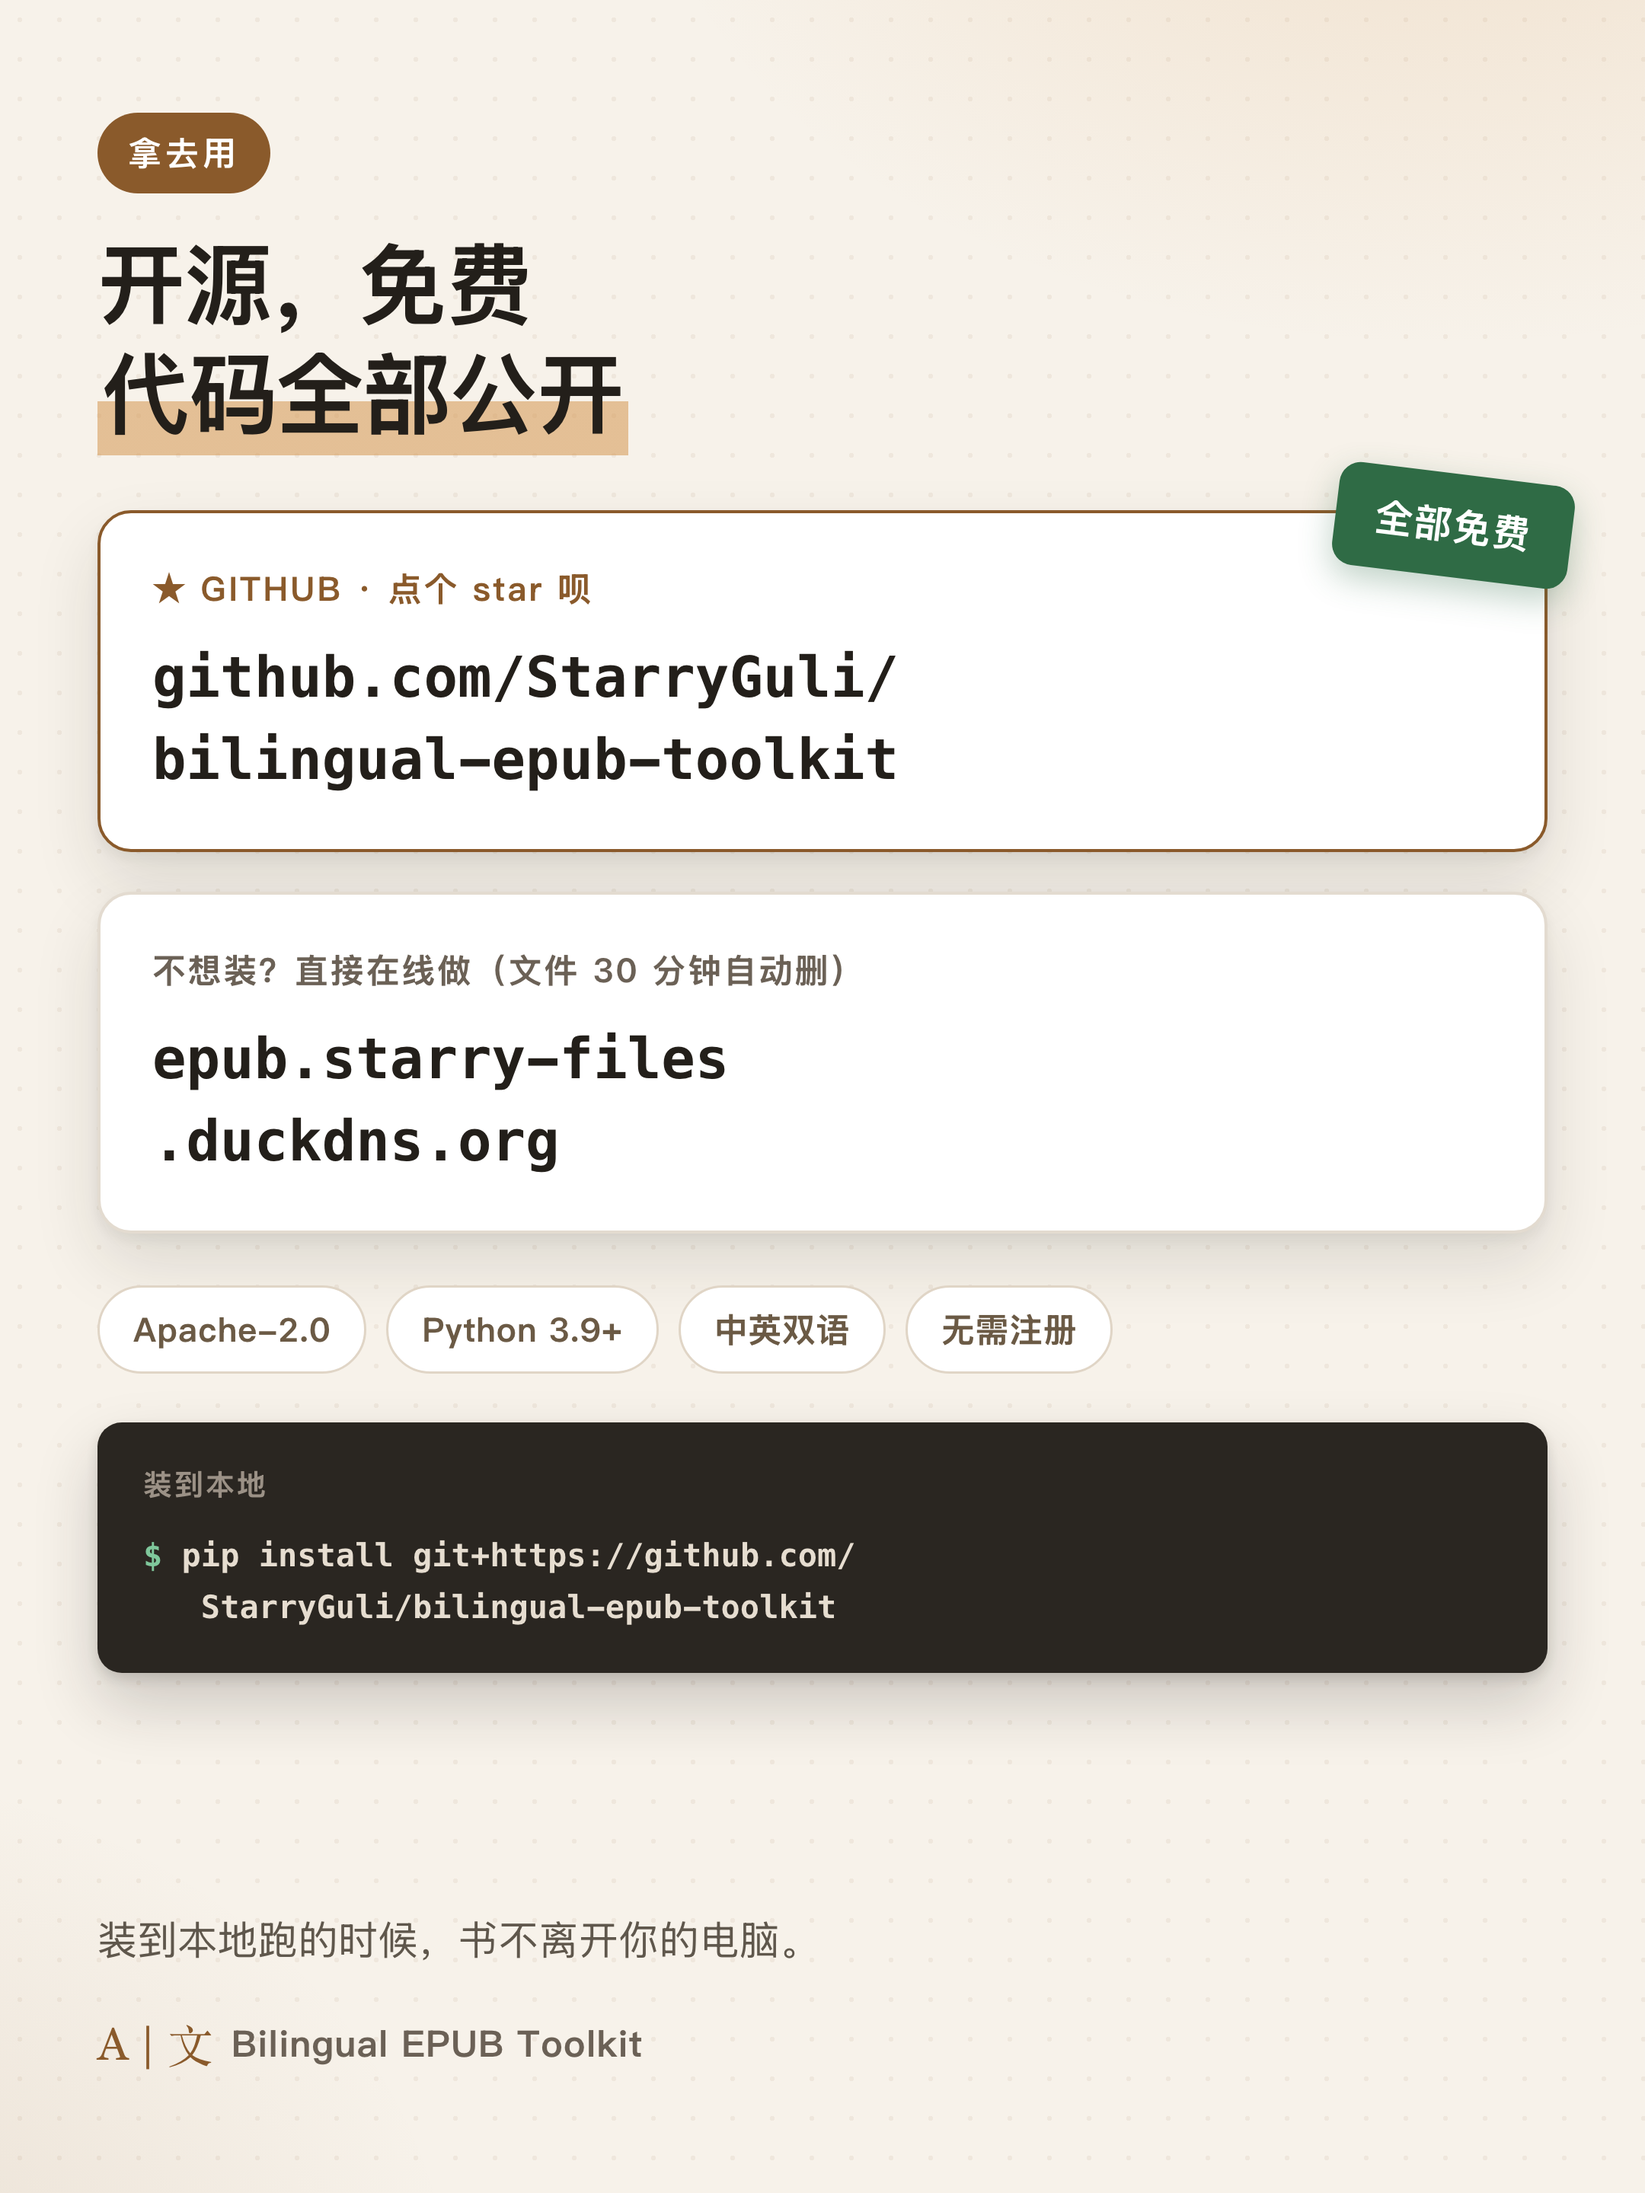
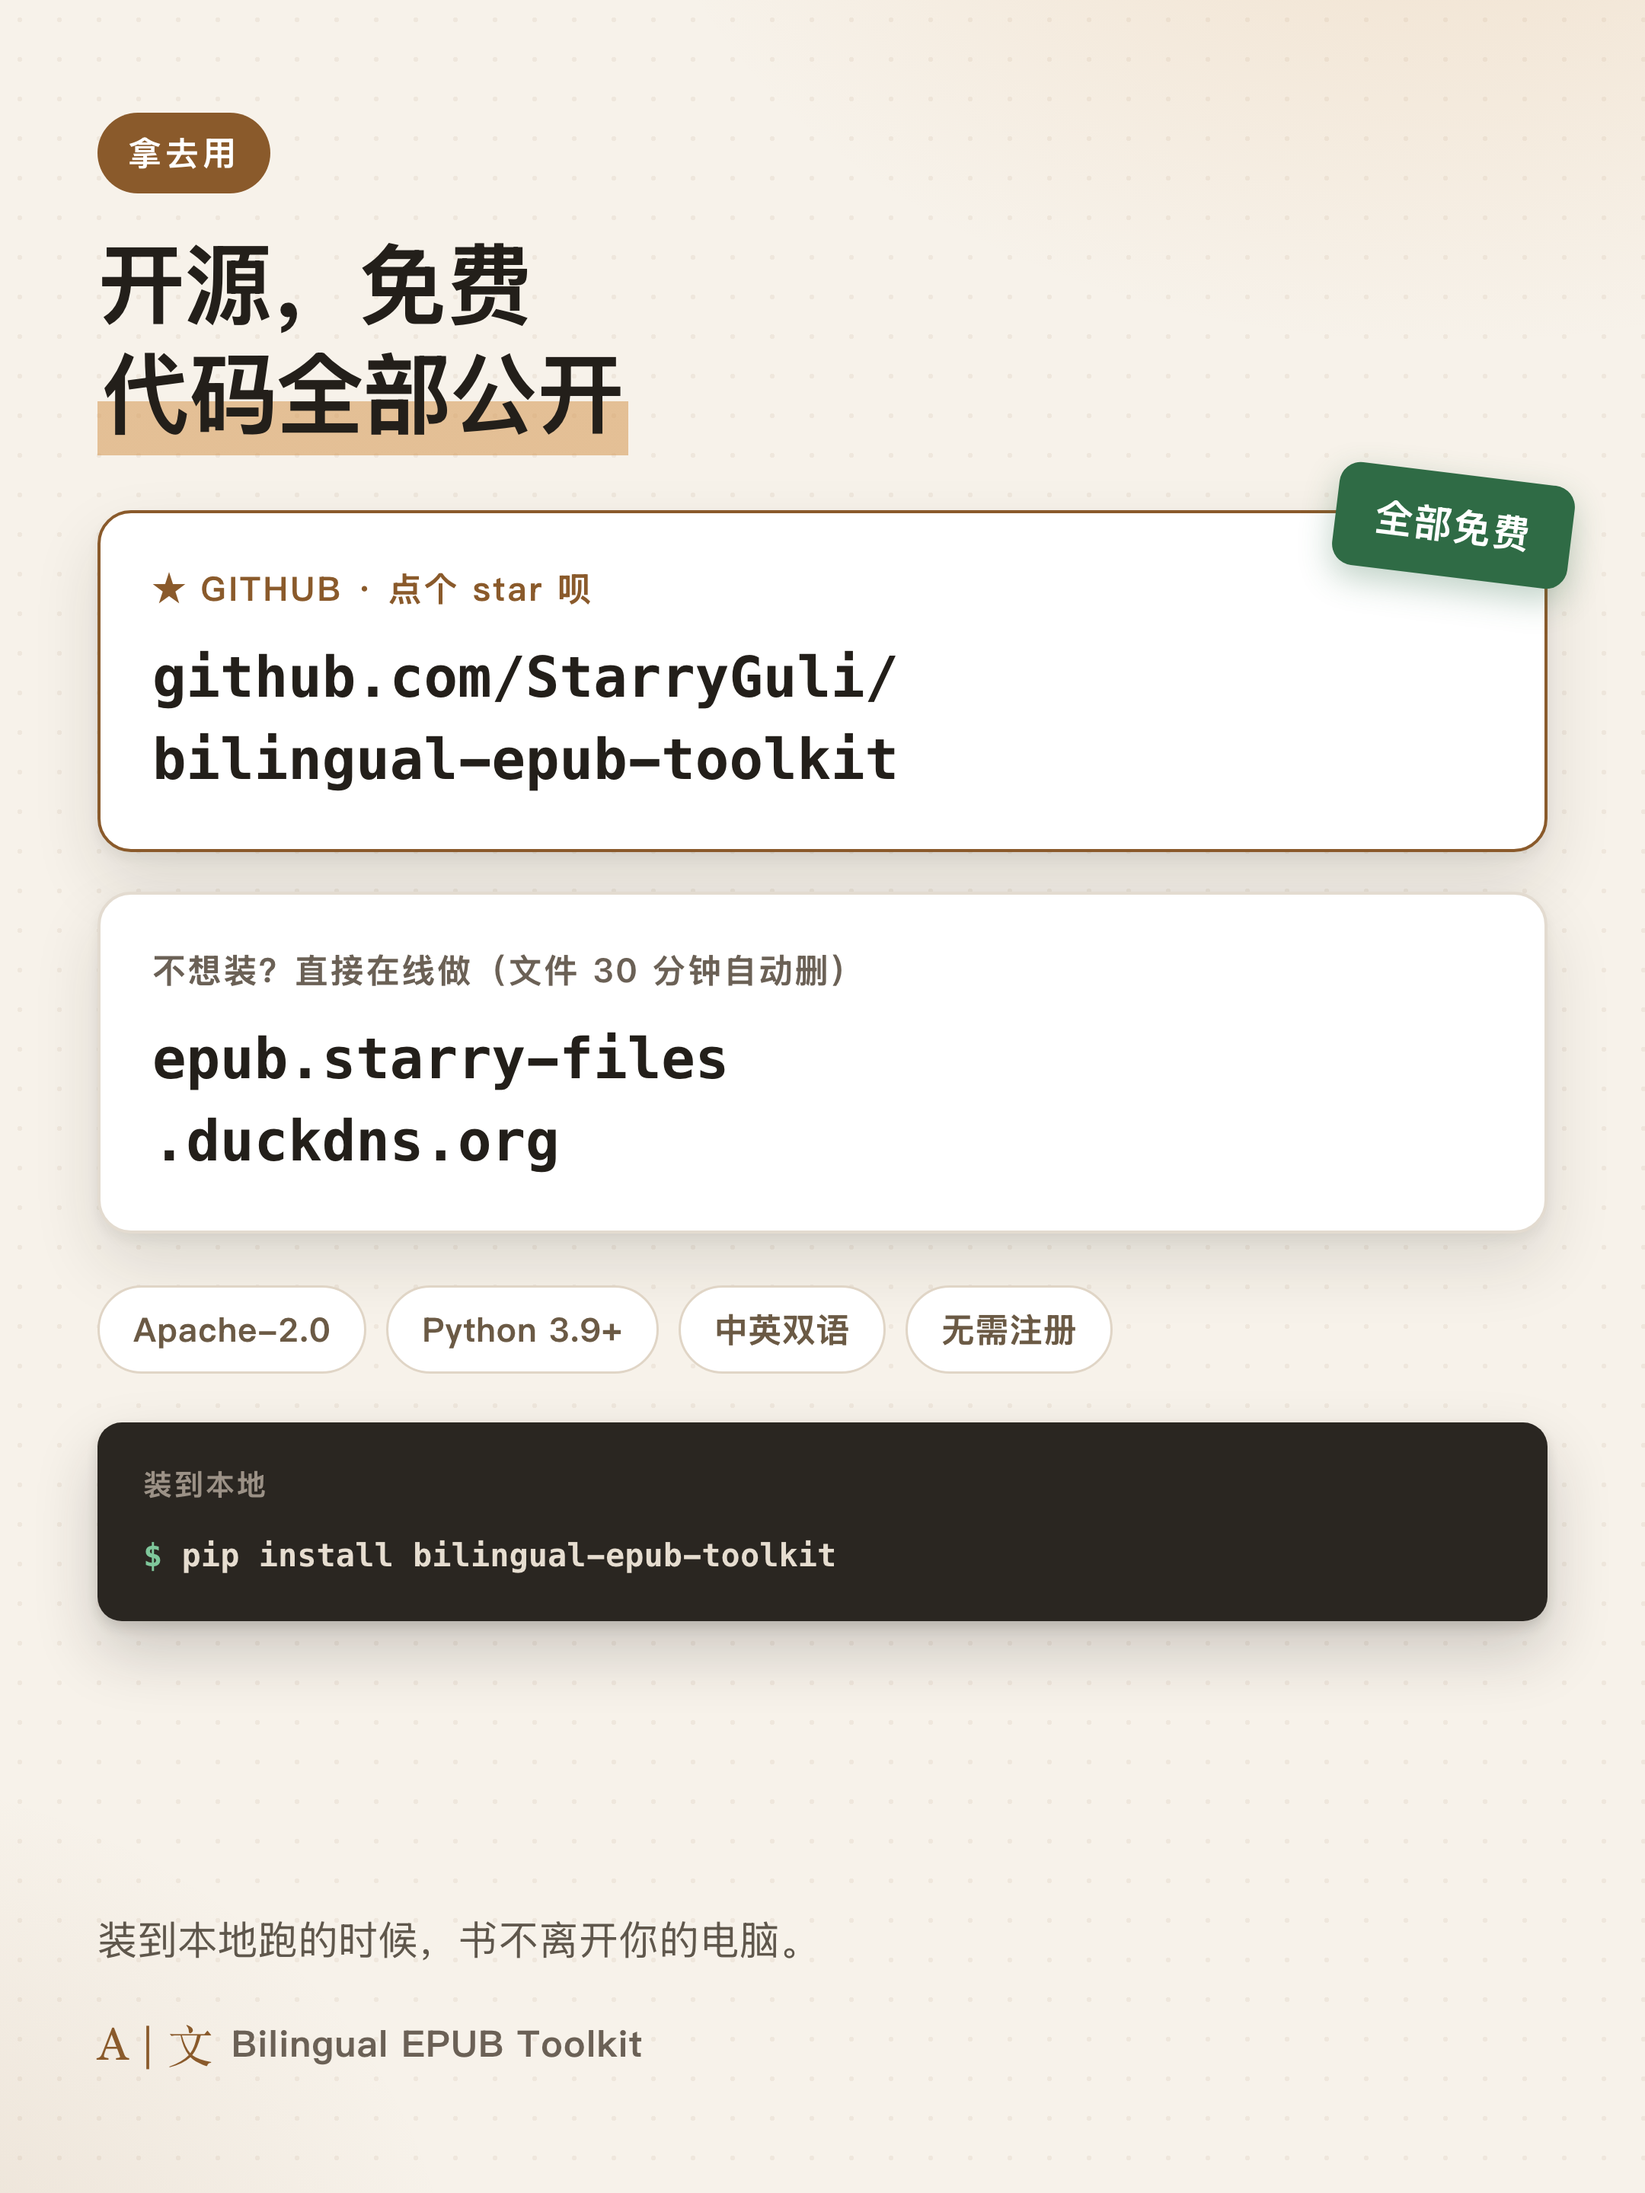
Point the badges and the install command at PyPI
0.1.0 is published, so pip install bilingual-epub-toolkit resolves and the
promo slide no longer has to fall back to a git URL. Adds the PyPI version
badge to both READMEs.

Changed region(s): [[0.062, 0.6875, 0.9616, 0.7812]]

diff --git a/assets/promo/5-links.html b/assets/promo/5-links.html
@@ -82,7 +82,7 @@ h2{font-size:58px;line-height:1.24;font-weight:800;letter-spacing:-.02em}
 </div>
 <div class="term inst z">
   <div class="l2">装到本地</div>
-  <p><span class="c">$</span> pip install git+https://github.com/<br>&nbsp;&nbsp;&nbsp;StarryGuli/bilingual-epub-toolkit</p>
+  <p><span class="c">$</span> pip install bilingual-epub-toolkit</p>
 </div>
 <div class="grow"></div>
 <p class="sub z" style="margin-bottom:22px">装到本地跑的时候，书不离开你的电脑。</p>

diff --git a/assets/promo/make_promo.py b/assets/promo/make_promo.py
@@ -258,7 +258,7 @@ h1{margin-top:46px}
 </div>
 <div class="term inst z">
   <div class="l2">装到本地</div>
-  <p><span class="c">$</span> pip install git+https://github.com/<br>&nbsp;&nbsp;&nbsp;StarryGuli/bilingual-epub-toolkit</p>
+  <p><span class="c">$</span> pip install bilingual-epub-toolkit</p>
 </div>
 <div class="grow"></div>
 <p class="sub z" style="margin-bottom:22px">装到本地跑的时候，书不离开你的电脑。</p>

diff --git a/README.md b/README.md
@@ -13,6 +13,7 @@
 </p>
 
 <p align="center">
+  <a href="https://pypi.org/project/bilingual-epub-toolkit/"><img alt="PyPI version" src="https://img.shields.io/pypi/v/bilingual-epub-toolkit"></a>
   <img alt="License: Apache-2.0" src="https://img.shields.io/badge/license-Apache--2.0-blue">
   <img alt="Python 3.9+" src="https://img.shields.io/badge/python-3.9%2B-blue">
   <img alt="No required dependencies beyond lxml" src="https://img.shields.io/badge/dependencies-lxml-lightgrey">

diff --git a/README.zh-CN.md b/README.zh-CN.md
@@ -13,6 +13,7 @@
 </p>
 
 <p align="center">
+  <a href="https://pypi.org/project/bilingual-epub-toolkit/"><img alt="PyPI 版本" src="https://img.shields.io/pypi/v/bilingual-epub-toolkit"></a>
   <img alt="License: Apache-2.0" src="https://img.shields.io/badge/license-Apache--2.0-blue">
   <img alt="Python 3.9+" src="https://img.shields.io/badge/python-3.9%2B-blue">
   <img alt="仅依赖 lxml" src="https://img.shields.io/badge/dependencies-lxml-lightgrey">
